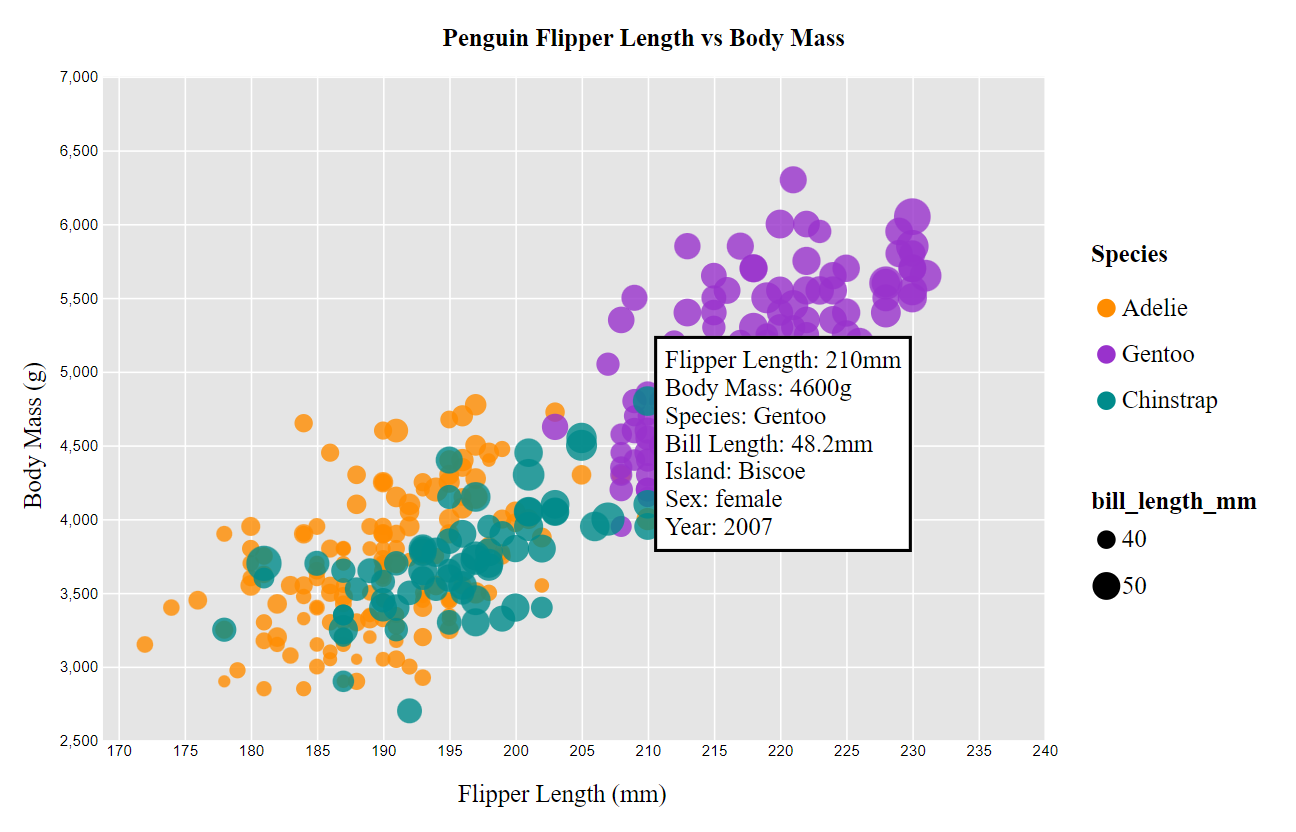
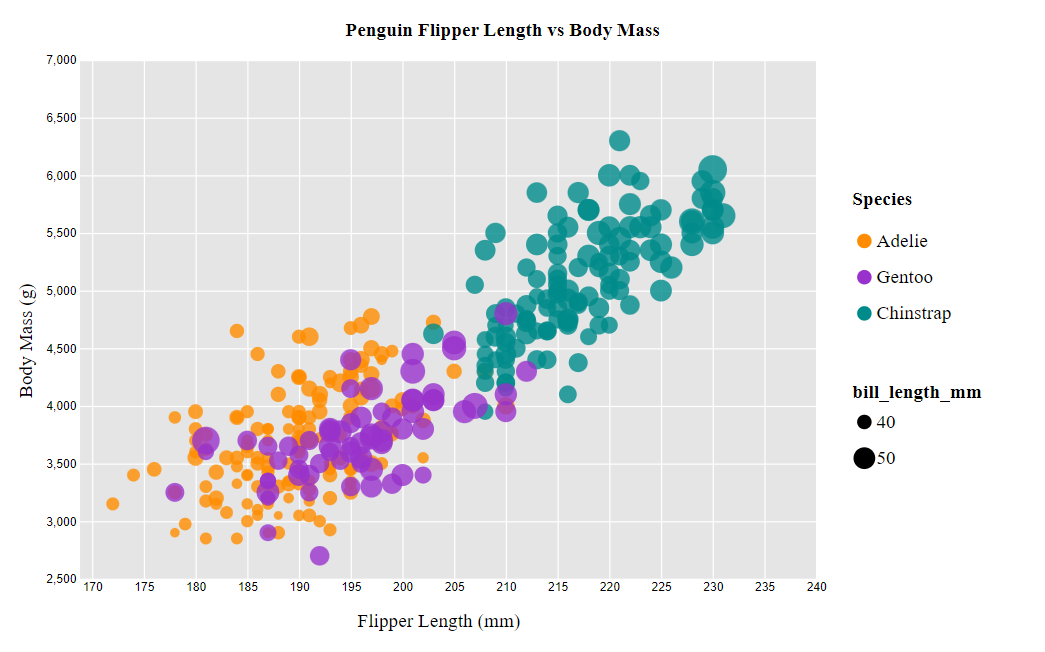
d3 updates

diff --git a/d3/d3.html b/d3/d3.html
@@ -77,7 +77,7 @@
 
             // changes the color of the dots depending on the species
             var color = d3.scaleOrdinal()
-                .domain(["Adelie", "Gentoo", "Chinstrap" ])
+                .domain(["Adelie", "Chinstrap", "Gentoo" ])
                 .range(["#FF8C00", "#9932CC", "#008B8B"]);
 
             // changes the size of the dots
